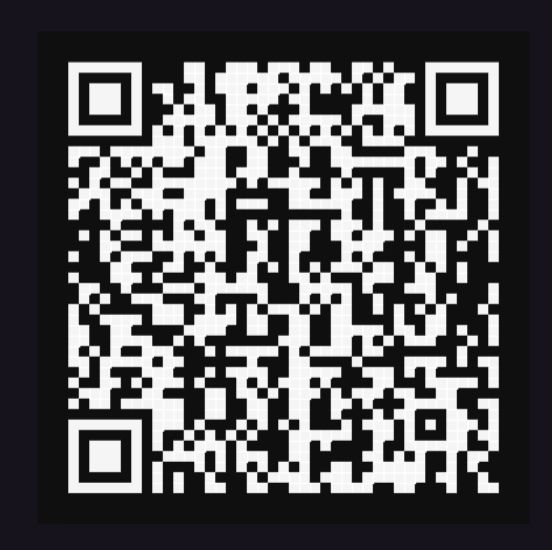
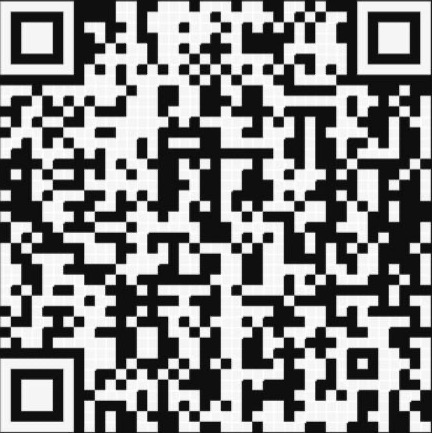
Atualização no redirecionamento do Pix e Lista de convidados

diff --git a/src/app/pages/GiftList.tsx b/src/app/pages/GiftList.tsx
@@ -13,6 +13,7 @@ import toalhasImg from "../../assets/jogodetoalhas.png";
 import potesImg from "../../assets/jogodepotes.png";
 import lixeiraImg from "../../assets/lixeira.png";
 import pixQrImg from "../../assets/pix-qr.jpeg";
+import pixLinkQrImg from "../../assets/pix-link-qr.png";
 import mia1Img from "../../assets/Mia1.png";
 import mia2Img from "../../assets/mia2.png";
 import praiaImg from "../../assets/praia.png";
@@ -22,6 +23,7 @@ import jogoPorcelanaImg from "../../assets/jogo_porcelana.png";
 import toalhasPremiumImg from "../../assets/toalhas_premium.png";
 import airfryerImg from "../../assets/airfryer.png";
 import corteImg from "../../assets/corte.png";
+import sanduicheiraImg from "../../assets/sanduicheira.png";
 
 interface GiftItem {
   id: number;
@@ -47,6 +49,7 @@ export function GiftList() {
   const [senderName, setSenderName] = useState("");
   const [isSendingMessage, setIsSendingMessage] = useState(false);
   const [paymentTab, setPaymentTab] = useState<'pix' | 'card'>('pix');
+  const [pixQrType, setPixQrType] = useState<'camera' | 'bank'>('camera');
   const [cart, setCart] = useState<CartItem[]>([]);
   const [isCartOpen, setIsCartOpen] = useState(false);
 
@@ -190,10 +193,10 @@ export function GiftList() {
     },
     {
       id: 16,
-      name: "Tábua de Corte Artesanal",
+      name: "Sanduicheira Elétrica",
       category: "mesa",
       price: 156.22,
-      image: corteImg,
+      image: sanduicheiraImg,
       available: true,
     },
     {
@@ -681,20 +684,41 @@ export function GiftList() {
             className="bg-wedding-pink text-white rounded-3xl p-8 md:p-12 text-center shadow-2xl"
           >
             <h2 className="text-3xl md:text-4xl font-serif mb-6">Prefere nos ajudar através do PIX? 💰</h2>
-            <p className="text-lg mb-8 opacity-90">
-              Escaneie o QR Code abaixo para contribuir diretamente.
+            
+            <div className="flex flex-wrap justify-center gap-2 mb-6">
+              <button
+                onClick={() => setPixQrType('camera')}
+                className={`px-4 py-2.5 rounded-2xl text-xs font-bold transition-all ${
+                  pixQrType === 'camera'
+                    ? 'bg-white text-wedding-pink shadow-md scale-105'
+                    : 'bg-white/20 text-white hover:bg-white/30'
+                }`}
+              >
+                📲 Câmera do Celular (Abre Bancos)
+              </button>
+              <button
+                onClick={() => setPixQrType('bank')}
+                className={`px-4 py-2.5 rounded-2xl text-xs font-bold transition-all ${
+                  pixQrType === 'bank'
+                    ? 'bg-white text-wedding-pink shadow-md scale-105'
+                    : 'bg-white/20 text-white hover:bg-white/30'
+                }`}
+              >
+                🏦 Leitura no App do Banco
+              </button>
+            </div>
+
+            <p className="text-sm md:text-base mb-6 opacity-90 font-medium max-w-lg mx-auto">
+              {pixQrType === 'camera'
+                ? "Aponte a câmera do celular para o QR Code abaixo para abrir a página do PIX, copiar a chave e abrir seu aplicativo de banco!"
+                : "Abra a opção PIX no aplicativo do seu banco e escaneie o QR Code abaixo."}
             </p>
 
-            <div className="bg-white rounded-2xl p-4 w-48 h-48 mx-auto mb-8 shadow-inner flex items-center justify-center">
+            <div className="bg-white rounded-2xl p-4 w-52 h-52 mx-auto mb-8 shadow-inner flex items-center justify-center">
               <img
-                src={pixQrImg}
+                src={pixQrType === 'camera' ? pixLinkQrImg : pixQrImg}
                 alt="PIX QR Code"
                 className="w-full h-full object-contain"
-                onError={(e) => {
-                  // Fallback if image not found
-                  e.currentTarget.style.display = 'none';
-                  e.currentTarget.parentElement!.innerHTML = '<div class="text-wedding-pink font-bold text-xs p-2">Salve o QR Code em assets/pix-qr.png</div>';
-                }}
               />
             </div>
 
@@ -789,7 +813,7 @@ export function GiftList() {
                   <button
                     onClick={() => setPaymentTab('pix')}
                     className={`flex-1 py-3 px-4 rounded-xl font-bold text-sm transition-all ${paymentTab === 'pix'
-                      ? 'bg-green-500 text-white shadow-lg shadow-green-200'
+                      ? 'bg-wedding-pink text-white shadow-lg shadow-rose-200'
                       : 'bg-gray-100 text-gray-600 hover:bg-gray-200'
                       }`}
                   >
@@ -809,25 +833,52 @@ export function GiftList() {
                 {/* PIX Tab */}
                 {paymentTab === 'pix' && (
                   <div className="text-center">
-                    <div className="bg-green-50 border border-green-200 rounded-2xl p-6 mb-4">
-                      <p className="text-green-700 font-bold mb-4">Escaneie o QR Code para pagar via PIX:</p>
+                    <div className="bg-rose-50/60 border border-rose-200 rounded-2xl p-6 mb-4">
+                      <div className="flex justify-center gap-2 mb-4">
+                        <button
+                          onClick={() => setPixQrType('camera')}
+                          className={`px-3 py-1.5 rounded-xl text-xs font-bold transition-all ${
+                            pixQrType === 'camera'
+                              ? 'bg-wedding-pink text-white shadow-sm'
+                              : 'bg-rose-100/60 text-wedding-pink hover:bg-rose-100'
+                          }`}
+                        >
+                          📲 Câmera (Abre Bancos)
+                        </button>
+                        <button
+                          onClick={() => setPixQrType('bank')}
+                          className={`px-3 py-1.5 rounded-xl text-xs font-bold transition-all ${
+                            pixQrType === 'bank'
+                              ? 'bg-wedding-pink text-white shadow-sm'
+                              : 'bg-rose-100/60 text-wedding-pink hover:bg-rose-100'
+                          }`}
+                        >
+                          🏦 App do Banco
+                        </button>
+                      </div>
+
+                      <p className="text-wedding-pink font-bold text-sm mb-4">
+                        {pixQrType === 'camera'
+                          ? "Escaneie com a câmera do celular para copiar a chave e escolher seu banco:"
+                          : "Abra o aplicativo do seu banco e escaneie o QR Code para pagar via PIX:"}
+                      </p>
                       <div className="bg-white rounded-2xl p-4 w-52 h-52 mx-auto mb-4 shadow-inner">
                         <img
-                          src={pixQrImg}
+                          src={pixQrType === 'camera' ? pixLinkQrImg : pixQrImg}
                           alt="PIX QR Code"
                           className="w-full h-full object-contain"
                         />
                       </div>
-                      <p className="text-sm text-green-600 mb-4">Ou copie o código PIX abaixo:</p>
-                      <div className="bg-white border border-green-200 rounded-xl p-3 mb-4">
-                        <p className="text-xs text-gray-500 font-mono break-all select-all">11945831201</p>
+                      <p className="text-sm text-wedding-pink font-medium mb-4">Ou copie o código PIX abaixo:</p>
+                      <div className="bg-white border border-rose-200 rounded-xl p-3 mb-4">
+                        <p className="text-xs text-gray-600 font-mono break-all select-all">11945831201</p>
                       </div>
                       <button
                         onClick={() => {
                           navigator.clipboard.writeText("11945831201");
                           alert("Chave PIX copiada!");
                         }}
-                        className="w-full px-6 py-4 bg-green-500 hover:bg-green-600 text-white rounded-2xl font-bold shadow-lg shadow-green-200 transition-all"
+                        className="w-full px-6 py-4 bg-wedding-pink hover:bg-wedding-pink/90 text-white rounded-2xl font-bold shadow-lg shadow-rose-200 transition-all"
                       >
                         Copiar Chave PIX
                       </button>

diff --git a/src/app/pages/PixRedirect.tsx b/src/app/pages/PixRedirect.tsx
@@ -1,0 +1,128 @@
+import { useEffect, useState } from "react";
+import { Heart, Check, Copy, ExternalLink, ShieldCheck, ArrowLeft } from "lucide-react";
+import { Link } from "react-router";
+
+interface BankOption {
+  name: string;
+  color: string;
+  textColor: string;
+  scheme: string;
+  androidPkg?: string;
+}
+
+const BANKS: BankOption[] = [
+  { name: "Nubank", color: "bg-[#820AD1]", textColor: "text-white", scheme: "nubank://" },
+  { name: "Banco Inter", color: "bg-[#FF7A00]", textColor: "text-white", scheme: "bancinter://" },
+  { name: "Itaú", color: "bg-[#EC7000]", textColor: "text-white", scheme: "itaucode://" },
+  { name: "Bradesco", color: "bg-[#CC092F]", textColor: "text-white", scheme: "bradesco://" },
+  { name: "Santander", color: "bg-[#EC0000]", textColor: "text-white", scheme: "santander://" },
+  { name: "C6 Bank", color: "bg-[#181818]", textColor: "text-white", scheme: "c6bank://" },
+  { name: "Banco do Brasil", color: "bg-[#FCDB00]", textColor: "text-blue-900", scheme: "bancodobrasil://" },
+  { name: "Caixa", color: "bg-[#005CA9]", textColor: "text-white", scheme: "caixaef://" },
+  { name: "PicPay", color: "bg-[#11C76F]", textColor: "text-white", scheme: "picpay://" },
+  { name: "Mercado Pago", color: "bg-[#009EE3]", textColor: "text-white", scheme: "mercadopago://" },
+];
+
+export function PixRedirect() {
+  const pixKey = "11945831201";
+  const [copied, setCopied] = useState(false);
+
+  const handleCopy = async () => {
+    try {
+      await navigator.clipboard.writeText(pixKey);
+      setCopied(true);
+      setTimeout(() => setCopied(false), 4000);
+    } catch (err) {
+      console.error("Erro ao copiar chave:", err);
+    }
+  };
+
+  useEffect(() => {
+    // Tenta copiar automaticamente ao abrir a página
+    handleCopy();
+  }, []);
+
+  const openBank = (scheme: string) => {
+    // Copia novamente por garantia antes de redirecionar
+    handleCopy();
+    window.location.href = scheme;
+  };
+
+  return (
+    <div className="min-h-screen bg-rose-50/40 pt-24 pb-16 px-4 flex items-center justify-center">
+      <div className="max-w-md w-full bg-white rounded-3xl shadow-2xl p-6 sm:p-8 text-center border border-rose-100 relative overflow-hidden">
+        {/* Header */}
+        <div className="mb-6">
+          <div className="w-16 h-16 bg-rose-100 rounded-full flex items-center justify-center mx-auto mb-3 shadow-inner">
+            <Heart className="w-8 h-8 text-wedding-pink fill-wedding-pink" />
+          </div>
+          <h1 className="text-2xl font-serif text-gray-900">Presente via PIX</h1>
+          <p className="text-xs text-gray-500 mt-1">Henrique & Luiza</p>
+        </div>
+
+        {/* Copy Status Badge */}
+        <div className="bg-emerald-50 border border-emerald-200 rounded-2xl p-4 mb-6 text-left flex items-start gap-3 shadow-sm">
+          <div className="p-2 bg-emerald-500 text-white rounded-xl flex-shrink-0 mt-0.5">
+            <Check className="w-5 h-5" />
+          </div>
+          <div>
+            <p className="text-xs font-bold text-emerald-800 uppercase tracking-wider">Chave PIX Copiada!</p>
+            <p className="text-sm font-semibold text-emerald-900 mt-0.5 font-mono">{pixKey}</p>
+            <p className="text-xs text-emerald-700 mt-1">
+              Agora basta abrir o seu banco e usar a opção <strong>PIX Copia e Cola</strong> ou <strong>Chave Telefone</strong>.
+            </p>
+          </div>
+        </div>
+
+        {/* Action Button: Copy Manual */}
+        <button
+          onClick={handleCopy}
+          className="w-full py-3.5 px-4 bg-rose-50 hover:bg-rose-100 border border-rose-200 text-wedding-pink font-bold rounded-2xl transition-all flex items-center justify-center gap-2 mb-6 active:scale-98"
+        >
+          {copied ? (
+            <>
+              <Check className="w-5 h-5 text-emerald-600" />
+              <span className="text-emerald-700">Chave copiada com sucesso!</span>
+            </>
+          ) : (
+            <>
+              <Copy className="w-5 h-5" />
+              <span>Copiar Chave PIX Novamente</span>
+            </>
+          )}
+        </button>
+
+        {/* Bank Shortcuts Header */}
+        <div className="text-left mb-4">
+          <p className="text-xs font-bold text-gray-400 uppercase tracking-wider">Toque para abrir seu Banco:</p>
+        </div>
+
+        {/* Bank Grid */}
+        <div className="grid grid-cols-2 gap-2.5 mb-8">
+          {BANKS.map((bank) => (
+            <button
+              key={bank.name}
+              onClick={() => openBank(bank.scheme)}
+              className={`${bank.color} ${bank.textColor} p-3 rounded-2xl font-bold text-xs flex items-center justify-between shadow-md hover:opacity-90 active:scale-95 transition-all text-left`}
+            >
+              <span>{bank.name}</span>
+              <ExternalLink className="w-3.5 h-3.5 opacity-80" />
+            </button>
+          ))}
+        </div>
+
+        {/* Footer info */}
+        <div className="pt-4 border-t border-gray-100 flex items-center justify-between text-xs text-gray-400">
+          <Link to="/lista-presentes" className="flex items-center gap-1 hover:text-wedding-pink transition-colors">
+            <ArrowLeft className="w-3.5 h-3.5" />
+            Voltar ao site
+          </Link>
+          <div className="flex items-center gap-1 text-emerald-600 font-medium">
+            <ShieldCheck className="w-4 h-4" />
+            Pagamento Seguro
+          </div>
+        </div>
+      </div>
+    </div>
+  );
+}

diff --git a/src/app/pages/RSVP.tsx b/src/app/pages/RSVP.tsx
@@ -23,15 +23,40 @@ export function RSVP() {
     }
   }, [isSubmitted, navigate]);
 
-  const handleSearch = async (e: React.FormEvent) => {
-    e.preventDefault();
-    const results = await guestService.searchGuests(searchQuery);
+  const executeSearch = async (query: string) => {
+    const trimmed = query.trim();
+    if (!trimmed) {
+      setSearchResults([]);
+      setError("");
+      return;
+    }
+
+    const results = await guestService.searchGuests(trimmed);
     setSearchResults(results);
     if (results.length === 0) {
       setError("Não encontramos convite para este nome. Por favor, verifique a grafia ou tente o nome da família.");
     } else {
       setError("");
     }
+  };
+
+  useEffect(() => {
+    if (!searchQuery.trim()) {
+      setSearchResults([]);
+      setError("");
+      return;
+    }
+
+    const timer = setTimeout(() => {
+      executeSearch(searchQuery);
+    }, 250);
+
+    return () => clearTimeout(timer);
+  }, [searchQuery]);
+
+  const handleSearch = (e: React.FormEvent) => {
+    e.preventDefault();
+    executeSearch(searchQuery);
   };
 
   const handleSelect = (guest: Guest) => {
@@ -156,29 +181,40 @@ export function RSVP() {
             className="bg-white rounded-3xl shadow-2xl p-8 md:p-12"
           >
             <div className="text-center mb-8">
-              <span className="text-wedding-pink font-medium mb-2 block">Olá, {selectedGuest.name}!</span>
-              <h2 className="text-3xl font-serif text-gray-900">Confirmar para {selectedGuest.family}?</h2>
+              <span className="text-wedding-pink font-medium text-lg mb-1 block">Olá, {selectedGuest.name}!</span>
+              <h2 className="text-3xl font-serif text-gray-900 mb-2">Confirmação de Presença</h2>
+              {selectedGuest.family && selectedGuest.family !== selectedGuest.name && (
+                <span className="inline-block bg-rose-50 text-wedding-pink text-xs px-3 py-1 rounded-full font-medium mt-1">
+                  {selectedGuest.family}
+                </span>
+              )}
             </div>
 
             <div className="space-y-8">
               <div className="text-center">
-                <label className="block text-gray-600 mb-4">Quantas pessoas virão no total?</label>
+                <label className="block text-gray-600 mb-4 font-medium">Quantas pessoas virão no total?</label>
                 <div className="flex items-center justify-center gap-6">
                   <button
                     onClick={() => setConfirmedCount(Math.max(1, confirmedCount - 1))}
-                    className="w-12 h-12 rounded-full border border-gray-200 flex items-center justify-center text-2xl hover:bg-gray-50 bg-white"
+                    className="w-12 h-12 rounded-full border border-gray-200 flex items-center justify-center text-2xl hover:bg-gray-50 bg-white transition-colors"
                   >
                     -
                   </button>
-                  <span className="text-4xl font-serif w-12">{confirmedCount}</span>
-                  <button
-                    onClick={() => setConfirmedCount(Math.min(selectedGuest.totalGuests, confirmedCount + 1))}
-                    className="w-12 h-12 rounded-full border border-gray-200 flex items-center justify-center text-2xl hover:bg-gray-50 bg-white"
-                  >
-                    +
-                  </button>
+                  <span className="text-4xl font-serif min-w-[48px] text-center">{confirmedCount}</span>
+                  {confirmedCount < selectedGuest.totalGuests ? (
+                    <button
+                      onClick={() => setConfirmedCount(Math.min(selectedGuest.totalGuests, confirmedCount + 1))}
+                      className="w-12 h-12 rounded-full border border-gray-200 flex items-center justify-center text-2xl hover:bg-gray-50 bg-white transition-colors"
+                    >
+                      +
+                    </button>
+                  ) : (
+                    <div className="w-12 h-12" />
+                  )}
                 </div>
-                <p className="mt-4 text-sm text-gray-400">Limite de {selectedGuest.totalGuests} pessoas para este convite</p>
+                <p className="mt-4 text-sm text-red-600 font-semibold">
+                  Limite de {selectedGuest.totalGuests} pessoa{selectedGuest.totalGuests !== 1 ? 's' : ''} para este convite
+                </p>
               </div>
 
               <div className="flex flex-col md:flex-row gap-4">

diff --git a/src/app/routes.tsx b/src/app/routes.tsx
@@ -11,6 +11,7 @@ import { Admin } from "./pages/Admin";
 import { NotFound } from "./pages/NotFound";
 import { ForgotPassword } from "./pages/ForgotPassword";
 import { ResetPassword } from "./pages/ResetPassword";
+import { PixRedirect } from "./pages/PixRedirect";
 
 export const router = createBrowserRouter([
   {
@@ -27,6 +28,7 @@ export const router = createBrowserRouter([
       { path: "admin", Component: Admin },
       { path: "esqueci-senha", Component: ForgotPassword },
       { path: "reset-senha", Component: ResetPassword },
+      { path: "pix", Component: PixRedirect },
       { path: "*", Component: NotFound },
     ],
   },
